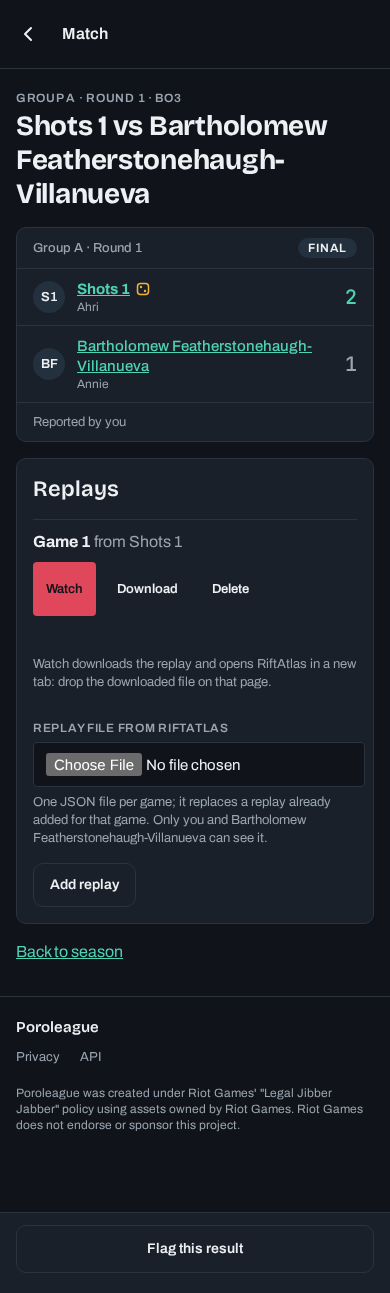
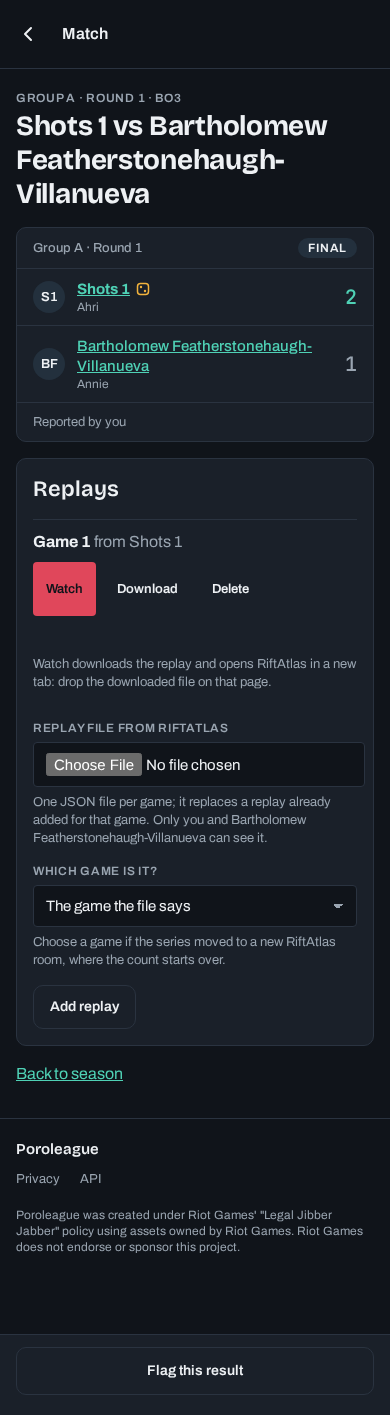
fix(replays): review fixes for the match page
The uploader can say which game a file is, downloads go out gzipped,
the page data no longer carries who agreed to publish, and a match with
an erased player offers no upload.

diff --git a/e2e/replays.spec.ts b/e2e/replays.spec.ts
@@ -1,4 +1,5 @@
 import { expect, test, type Page } from '@playwright/test';
+import { readFileSync } from 'node:fs';
 import { replayFile } from '../src/lib/server/test/replayFile.ts';
 import { removeSeason, seedResult, seedSeason } from './db.ts';
 import { ORGANIZER, SEASONS, as, player, playerName } from './fixtures.ts';
@@ -9,13 +10,15 @@ let open: number; // round 2: Replays 1 vs Replays 3, unreported
 const url = () => `/seasons/${slug}/matches/${match}`;
 const [p1, p2] = [playerName('replays', 1), playerName('replays', 2)];
 // Dated now, after the season was seeded: an older game can't be this season's.
-const file = (legends?: string[]) => replayFile({ legends, completedAt: Date.now() });
-const upload = async (page: Page, text: string) => {
+const file = (legends?: string[], replayId?: string) =>
+	replayFile({ legends, replayId, completedAt: Date.now() });
+const upload = async (page: Page, text: string, game?: string) => {
 	await page.getByLabel('Replay file from RiftAtlas').setInputFiles({
 		name: 'replay.json',
 		mimeType: 'application/json',
 		buffer: Buffer.from(text)
 	});
+	if (game) await page.getByLabel('Which game is it?').selectOption(game);
 	await page.getByRole('button', { name: 'Add replay' }).click();
 };
 const replays = (page: Page) => page.getByRole('region', { name: 'Replays' });
@@ -60,8 +63,28 @@ test('upload, watch, and who can see a replay', async ({ browser }) => {
 	]);
 	expect(download.suggestedFilename()).toBe(`poroleague-${slug}-match-${match}-game-1.json`);
 	expect(popup.url()).toBe('https://play.riftatlas.com/?replayFile=1');
+	// It travels gzipped; what lands on disk is the JSON.
+	expect(readFileSync(await download.path(), 'utf8')).toBe(game1);
 	const got = await opponent.request.get(`${url()}/replay/1`);
+	expect(got.headers()['content-encoding']).toBe('gzip');
 	expect(await got.text()).toBe(game1);
+
+	// The series moved to a new room, whose first game also says "game 1": it replaces nothing
+	// until the player says which game it is.
+	const room2 = file(['Ahri, Nine-Tailed Fox', 'Annie, Dark Child'], 'ROOM2:1');
+	await upload(uploader, room2);
+	await expect(uploader.getByRole('status')).toContainText('Game 1 already has another replay.');
+	await upload(uploader, room2, 'Game 2');
+	await expect(replays(uploader).getByRole('listitem')).toHaveCount(2);
+	expect(await (await opponent.request.get(`${url()}/replay/1`)).text()).toBe(game1);
+	// The same form sent again changes nothing.
+	await uploader.reload();
+	await expect(replays(uploader).getByRole('listitem')).toHaveCount(2);
+
+	// The public log says nothing of replays; the organizer's does.
+	await opponent.goto(`/seasons/${slug}/audit`);
+	await expect(opponent.getByText(p1).first()).toBeVisible();
+	await expect(opponent.getByText('replay uploaded')).toHaveCount(0);
 
 	// Nobody else sees it or can fetch it: not another player, not a visitor.
 	for (const options of [as(player('replays', 3)), {}]) {
@@ -77,10 +100,14 @@ test('upload, watch, and who can see a replay', async ({ browser }) => {
 	const org = await browser.newPage(as(ORGANIZER));
 	await org.goto(url());
 	await expect(org.getByLabel('Replay file from RiftAtlas')).toHaveCount(0);
-	await replays(org).getByRole('button', { name: 'Delete' }).click();
-	await org.getByRole('dialog').getByRole('button', { name: 'Delete replay' }).click();
-	await expect(org.getByRole('status')).toHaveText('Game 1 replay deleted.');
+	for (const game of [1, 2]) {
+		await replays(org).getByRole('button', { name: 'Delete' }).first().click();
+		await org.getByRole('dialog').getByRole('button', { name: 'Delete replay' }).click();
+		await expect(org.getByRole('status')).toHaveText(`Game ${game} replay deleted.`);
+	}
 	await expect(replays(org)).toHaveCount(0);
+	await org.goto(`/seasons/${slug}/audit`);
+	await expect(org.getByText('Game 2 replay uploaded')).toBeVisible();
 	expect((await opponent.request.get(`${url()}/replay/1`)).status()).toBe(404);
 });
 

diff --git a/src/routes/seasons/[slug]/matches/[id]/+page.server.ts b/src/routes/seasons/[slug]/matches/[id]/+page.server.ts
@@ -18,11 +18,12 @@ import {
 	saveReport
 } from '#lib/server/matches.ts';
 import { cardContext, earlyNote, liveState, matchCard } from '#lib/matchCard.ts';
+import { MAX_REPLAY_BYTES, TOO_BIG } from '#lib/replay.ts';
 import {
 	canSeeReplays,
 	deleteReplay,
+	inMatch,
 	matchReplays,
-	MAX_REPLAY_BYTES,
 	saveReplay
 } from '#lib/server/replays.ts';
 import { getSeason, seasonEntries } from '#lib/server/seasons.ts';
@@ -89,7 +90,8 @@ export const load: PageServerLoad = async (event) => {
 	});
 	return {
 		season,
-		match,
+		// Without who has agreed to publish replays: that is between the two players.
+		match: { ...match, p1PublishReplay: undefined, p2PublishReplay: undefined },
 		// Same status rule as every match card.
 		status: card.status,
 		head: card.props.head,
@@ -118,8 +120,11 @@ export const load: PageServerLoad = async (event) => {
 							game: r.game,
 							by: (r.uploadedBy === p1.id ? p1 : p2).displayName
 						})),
-						canUpload: playing,
-						canDelete: playing || organizer
+						// A match with an erased player keeps no replays.
+						canUpload: playing && !p1.former && !p2.former,
+						canDelete: playing || organizer,
+						// How many games the match had, for choosing which one a file is.
+						played: match.games?.length ?? match.p1Games + (match.p2Games ?? 0)
 					}
 				: null,
 		// Only the form needs it; anyone else gets no hint of a player's last legend.
@@ -180,16 +185,24 @@ export const actions: Actions = {
 	// Either player adds or replaces a game's replay, at any time once the result is in.
 	replay: async (event) => {
 		const user = playerAction(event);
-		const file = (await event.request.formData()).get('file');
+		const form = await event.request.formData();
+		const file = form.get('file');
 		if (!(file instanceof File) || !file.size)
 			return fail(400, { error: true, message: 'Choose a replay file first.' });
-		if (file.size > MAX_REPLAY_BYTES)
-			return fail(400, { error: true, message: 'A replay file can be 5 MB at most.' });
+		if (file.size > MAX_REPLAY_BYTES) return fail(400, { error: true, message: TOO_BIG });
 		const text = await file.text();
+		// Empty: the game the file says it is.
+		const game = Number(form.get('game'));
 		const { season, match } = context(event);
-		if (user.id !== match.p1Id && user.id !== match.p2Id)
+		if (!inMatch(match, user.id))
 			return fail(403, { error: true, message: 'Only the two players can add a replay.' });
-		const error = saveReplay(match, season.createdAt, user.id, text);
+		const error = saveReplay(
+			match,
+			season.createdAt,
+			user.id,
+			text,
+			Number.isInteger(game) && game > 0 ? game : undefined
+		);
 		if (error) return fail(400, { error: true, message: error });
 		const opponent = matchPlayers(match).find((p) => p.id !== user.id)!.displayName;
 		return { message: `Replay saved. Only you and ${opponent} can see it.` };
@@ -200,7 +213,7 @@ export const actions: Actions = {
 		const organizer = user.isOrganizer && (await currentRole(event));
 		const game = Number((await event.request.formData()).get('game'));
 		const { match } = context(event, organizer);
-		if (!organizer && user.id !== match.p1Id && user.id !== match.p2Id)
+		if (!organizer && !inMatch(match, user.id))
 			return fail(403, { error: true, message: "This replay isn't yours to delete." });
 		if (!deleteReplay(match, user.id, game))
 			return fail(404, { error: true, message: 'That replay is already gone.' });

diff --git a/src/routes/seasons/[slug]/matches/[id]/+page.svelte b/src/routes/seasons/[slug]/matches/[id]/+page.svelte
@@ -4,6 +4,7 @@
 	import GameRows from '#lib/components/GameRows.svelte';
 	import MatchCard from '#lib/components/MatchCard.svelte';
 	import { parseReport } from '#lib/league/report.ts';
+	import { MAX_REPLAY_BYTES, TOO_BIG } from '#lib/replay.ts';
 	import { MediaQuery } from 'svelte/reactivity';
 	import type { PageProps } from './$types';
 
@@ -83,9 +84,7 @@
 	// The server refuses bigger request bodies outright; say so before the upload.
 	const tooBig = (e: Event & { currentTarget: HTMLInputElement }) =>
 		e.currentTarget.setCustomValidity(
-			(e.currentTarget.files?.[0]?.size ?? 0) > 5 * 1024 * 1024
-				? 'A replay file can be 5 MB at most.'
-				: ''
+			(e.currentTarget.files?.[0]?.size ?? 0) > MAX_REPLAY_BYTES ? TOO_BIG : ''
 		);
 </script>
 
@@ -340,6 +339,19 @@
 							<span class="pb-hint">
 								One JSON file per game; it replaces a replay already added for that game. Only you
 								and {opponent} can see it.
+							</span>
+						</label>
+						<label class="pb-field">
+							Which game is it?
+							<select class="pb-input pb-select" name="game">
+								<option value="">The game the file says</option>
+								{#each { length: r.played }, i (i)}
+									<option value={i + 1}>Game {i + 1}</option>
+								{/each}
+							</select>
+							<span class="pb-hint">
+								Choose a game if the series moved to a new RiftAtlas room, where the count starts
+								over.
 							</span>
 						</label>
 						<button class="pb-btn pb-btn-secondary">Add replay</button>

diff --git a/src/routes/seasons/[slug]/matches/[id]/replay/[game]/+server.ts b/src/routes/seasons/[slug]/matches/[id]/replay/[game]/+server.ts
@@ -1,7 +1,7 @@
 import { error } from '@sveltejs/kit';
 import { currentRole } from '#lib/server/auth.ts';
 import { getMatch } from '#lib/server/matches.ts';
-import { canSeeReplays, replayFile } from '#lib/server/replays.ts';
+import { canSeeReplays, replayGzip } from '#lib/server/replays.ts';
 import { getSeason } from '#lib/server/seasons.ts';
 import type { RequestHandler } from './$types';
 
@@ -15,12 +15,14 @@ export const GET: RequestHandler = async (event) => {
 	const match = Number.isInteger(id) ? getMatch(season.id, id) : undefined;
 	const file =
 		match && canSeeReplays(match, locals.user?.id ?? null, organizer)
-			? replayFile(match.id, game)
+			? replayGzip(match.id, game)
 			: undefined;
 	if (!file) error(404, 'Replay not found');
-	return new Response(file, {
+	// Sent gzipped as stored; the browser saves the plain JSON.
+	return new Response(new Uint8Array(file), {
 		headers: {
 			'content-type': 'application/json',
+			'content-encoding': 'gzip',
 			'content-disposition': `attachment; filename="poroleague-${season.slug}-match-${id}-game-${game}.json"`,
 			'cache-control': 'private, no-store'
 		}
